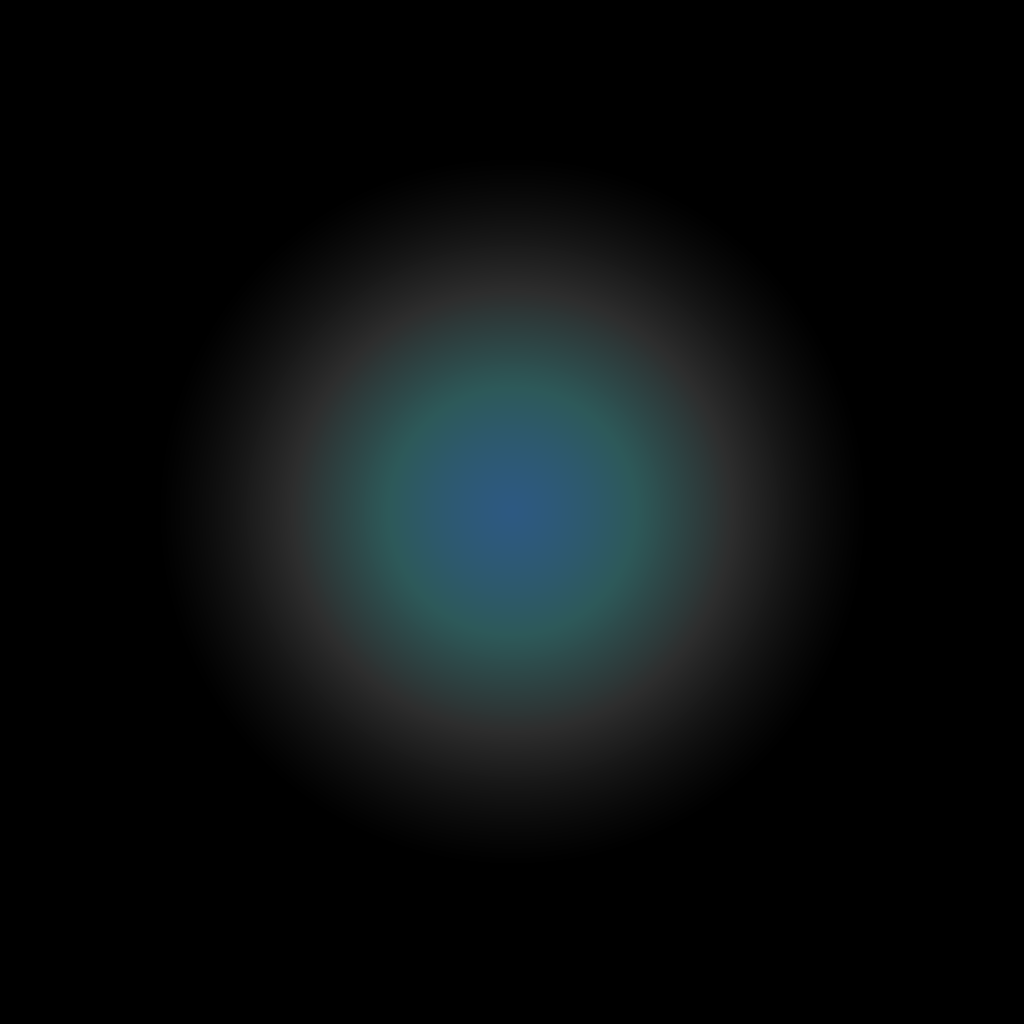
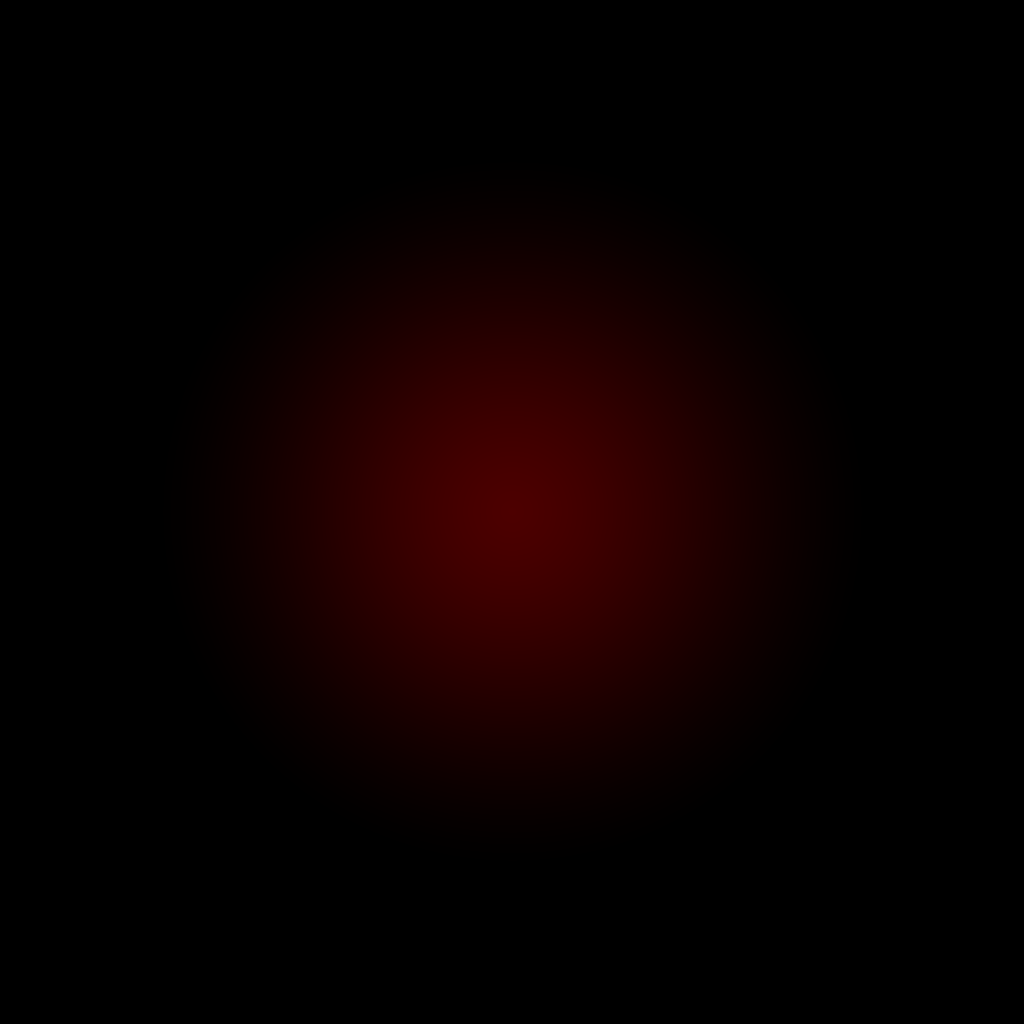
ships emission

Changed region(s): [[0.2188, 0.2188, 0.7812, 0.7812]]

diff --git a/GameEngineLib/Components/AbsDrawableComponent.cpp b/GameEngineLib/Components/AbsDrawableComponent.cpp
@@ -67,11 +67,17 @@ glm::dquat AbsDrawableComponent::getRelativeOrientation()
     return relativeOrientation;
 }
 
+void AbsDrawableComponent::setEmissionPercentage(float percentage)
+{
+    emissionValue = percentage;
+}
+
 std::string AbsDrawableComponent::serialize()
 {
     std::stringstream s;
     s << serializeBase();
     s << "modelName=" << modelName << "\n";
+    s << "emissionValue=" << emissionValue << "\n";
     s << "relativePosition=" << relativePosition.x << " " << relativePosition.y << " " << relativePosition.z << "\n";
     s << "relativeOrientation=" << relativeOrientation.w << " " << relativeOrientation.x << " " << relativeOrientation.y << " " << relativeOrientation.z << "\n";
     return s.str();
@@ -84,5 +90,6 @@ AbsDrawableComponent * AbsDrawableComponent::deserialize(Model3dFactory * model3
     auto model = model3dFactory->build(modelName);
     auto component = new AbsDrawableComponent(model, modelName, reader.getdv3("relativePosition"), reader.getdquat("relativeOrientation"));
     component->deserializeBaseInPlace(serializedString);
+    component->setEmissionPercentage(reader.getd("emissionValue"));
     return component;
 }

diff --git a/GameEngineLib/ShipFactory.cpp b/GameEngineLib/ShipFactory.cpp
@@ -42,6 +42,7 @@ GameObject * ShipFactory::build(std::string mediakey)
     for (auto& element : data["models"]) {
         auto model3d = model3dFactory->build(element);
         auto drawableComponent = new AbsDrawableComponent(model3d, element, glm::dvec3(0.0), glm::dquat(1.0, 0.0, 0.0, 0.0));
+        drawableComponent->setEmissionPercentage(1.0);
         ship->addComponent(drawableComponent);
     }
 

diff --git a/GameEngineLib/Components/AbsDrawableComponent.h b/GameEngineLib/Components/AbsDrawableComponent.h
@@ -17,6 +17,8 @@ public:
     glm::dvec3 getRelativePosition();
     void setRelativeOrientation(glm::dquat relativeOrientation);
     glm::dquat getRelativeOrientation();    
+
+    void setEmissionPercentage(float percentage);
     
     virtual std::string serialize() override;
     static AbsDrawableComponent* deserialize(Model3dFactory* model3dFactory, std::string serializedString);
